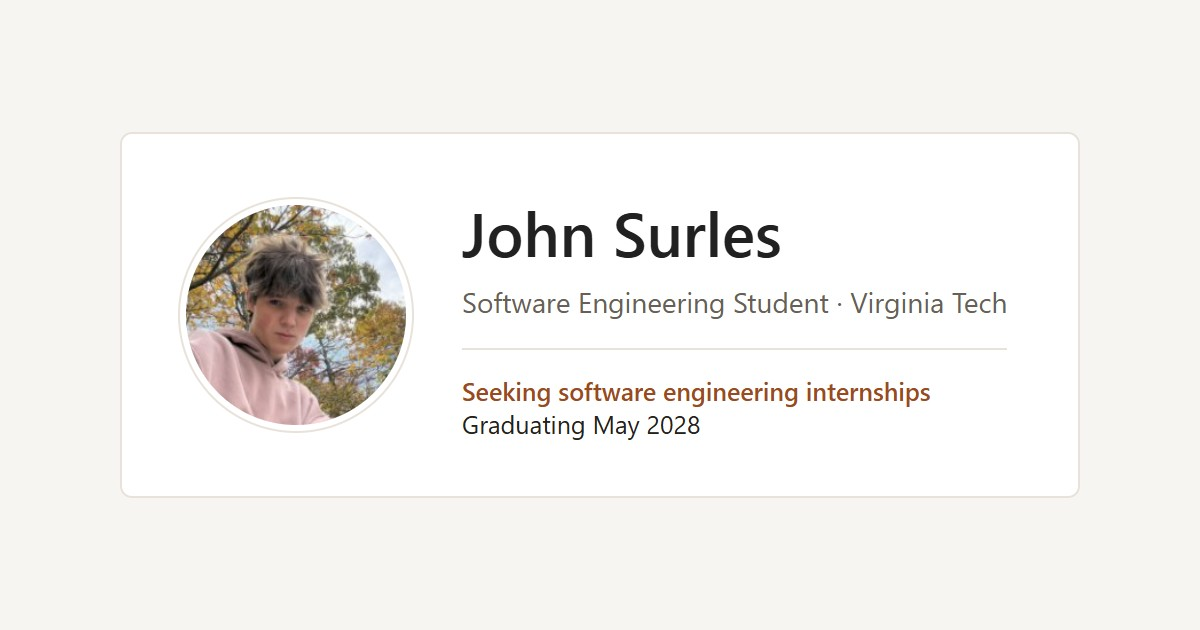
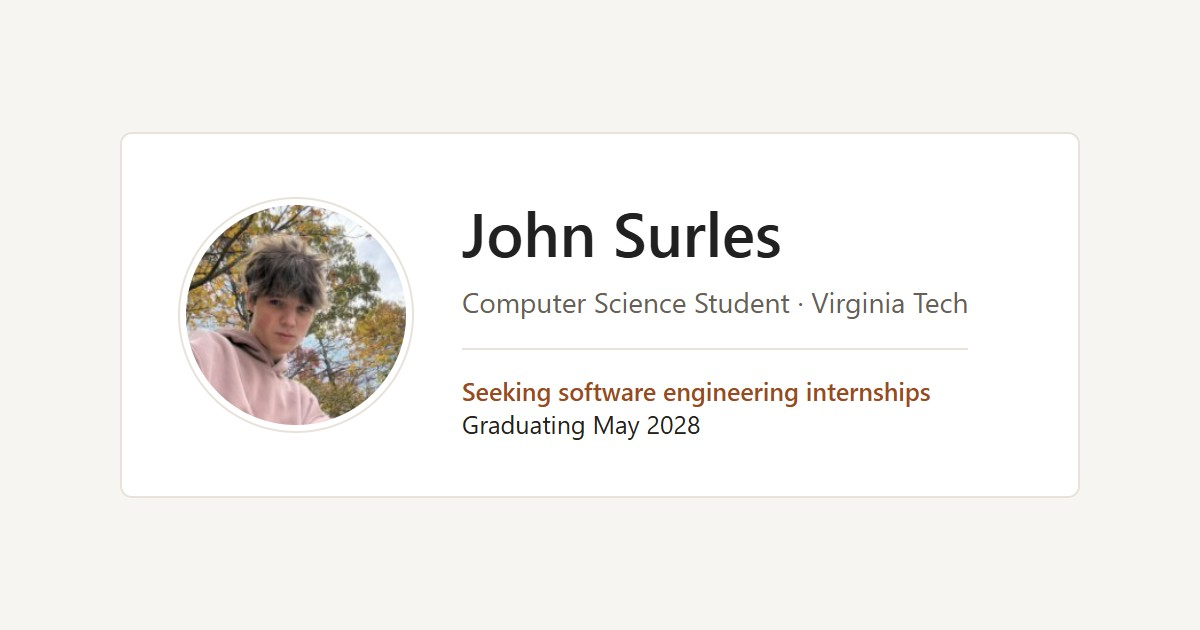
Title: Computer Science Student
Header subtitle, page title, image alt text, and social card now say Computer
Science Student instead of Software Engineering Student.

Changed region(s): [[0.37, 0.4524, 0.8325, 0.5127]]

diff --git a/scripts/social-card.html b/scripts/social-card.html
@@ -20,7 +20,7 @@ body.icon .card{display:none}
  <img class="photo" src="../public/images/profile.jpg" alt="">
  <div>
   <h1>John Surles</h1>
-  <p class="sub">Software Engineering Student · Virginia Tech</p>
+  <p class="sub">Computer Science Student · Virginia Tech</p>
   <p class="status"><b>Seeking software engineering internships</b><br>Graduating May 2028</p>
  </div>
 </div>
